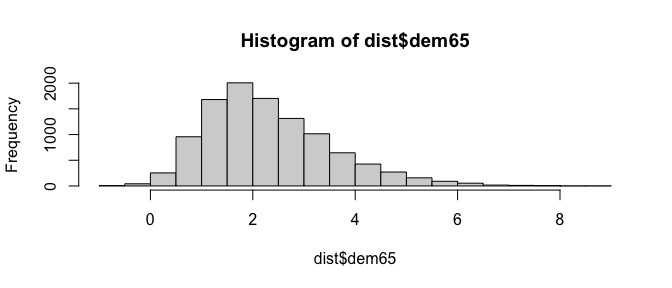
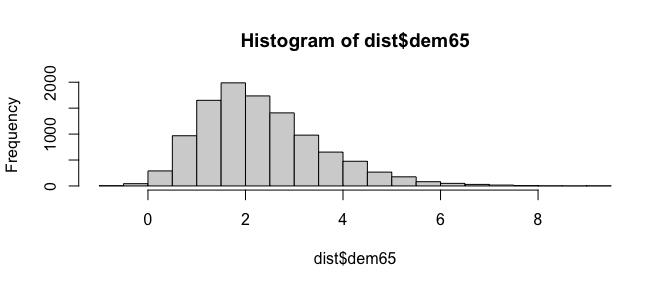
Update readme

diff --git a/README.md b/README.md
@@ -81,7 +81,7 @@ rejection sampling)
 bnlearn::cpquery(fitted = network$bayes_net,
                  event = (dem65 > 1 & dem65 < 2),
                  evidence = (dem60 > 1))
-#> [1] 0.3457536
+#> [1] 0.3410203
 
 # Get distribution under this assumption:
 dist <- bnlearn::cpdist(fitted = network$bayes_net,
@@ -126,11 +126,11 @@ inter_dist <- cpdist(fitted = mut,
                      method = "lw")
 # mean
 (m <- sum(inter_dist$dem65 * attr(inter_dist, "weights")) / sum(attr(inter_dist, "weights")))
-#> [1] 1.72881
+#> [1] 1.733022
 # variance
 sum(attr(inter_dist, "weights") * (inter_dist$dem65 - m)^2)/ 
   sum(attr(inter_dist, "weights"))
-#> [1] 0.3255103
+#> [1] 0.3253716
 ```
 
 This is higher than the original estimates for the mean and variance of
@@ -153,11 +153,11 @@ inter_dist <- cpdist(fitted = mut,
                      method = "lw")
 # mean
 (m <- sum(inter_dist$ind60 * attr(inter_dist, "weights")) / sum(attr(inter_dist, "weights")))
-#> [1] -0.0010376
+#> [1] 0.0002731072
 # variance
 sum(attr(inter_dist, "weights") * (inter_dist$ind60 - m)^2)/ 
   sum(attr(inter_dist, "weights"))
-#> [1] 0.4445823
+#> [1] 0.4469307
 ```
 
 Because `dem65` has no effect on `ind60`, this is identical to the
@@ -187,19 +187,19 @@ fit_sim <- mxsem(model,
 ``` r
 round(coef(fit_sim) - coef(mx_model), 3)
 #>    ind60→x2    ind60→x3 ind60→dem60 ind60→dem65           a           b 
-#>     -27.007      21.726     -90.509     140.349      -0.059      -0.059 
+#>       0.009       0.006      -0.001       0.007       0.004      -0.002 
 #>           c dem60→dem65       y1↔y1       y2↔y2       y3↔y3       y2↔y4 
-#>      -0.016       0.172      -0.319      -0.222       0.323       0.069 
+#>      -0.004       0.002       0.000      -0.064      -0.013      -0.022 
 #>       y4↔y4       y2↔y6       y6↔y6       x1↔x1       x2↔x2       x3↔x3 
-#>      -0.056       0.236       1.700       0.652       1.817       1.259 
+#>      -0.001      -0.037      -0.036       0.000      -0.002       0.001 
 #>       y1↔y5       y5↔y5       y3↔y7       y7↔y7       y4↔y8       y6↔y8 
-#>      -0.111       0.408       0.100      -0.095       0.198       1.696 
+#>       0.003      -0.012      -0.024      -0.008       0.008      -0.009 
 #>       y8↔y8 ind60↔ind60 dem60↔dem60 dem65↔dem65      one→y1      one→y2 
-#>       1.602      -0.449       0.132       0.014      -0.083       0.274 
+#>       0.023      -0.001      -0.023       0.001      -0.009      -0.006 
 #>      one→y3      one→y4      one→y6      one→x1      one→x2      one→x3 
-#>      -0.045       0.144       0.131      -0.175       0.050      -0.039 
+#>       0.001      -0.015      -0.006       0.000       0.001      -0.002 
 #>      one→y5      one→y7      one→y8 
-#>       0.352       0.071       0.137
+#>       0.002      -0.002      -0.017
 ```
 
 ## Central Challenge
